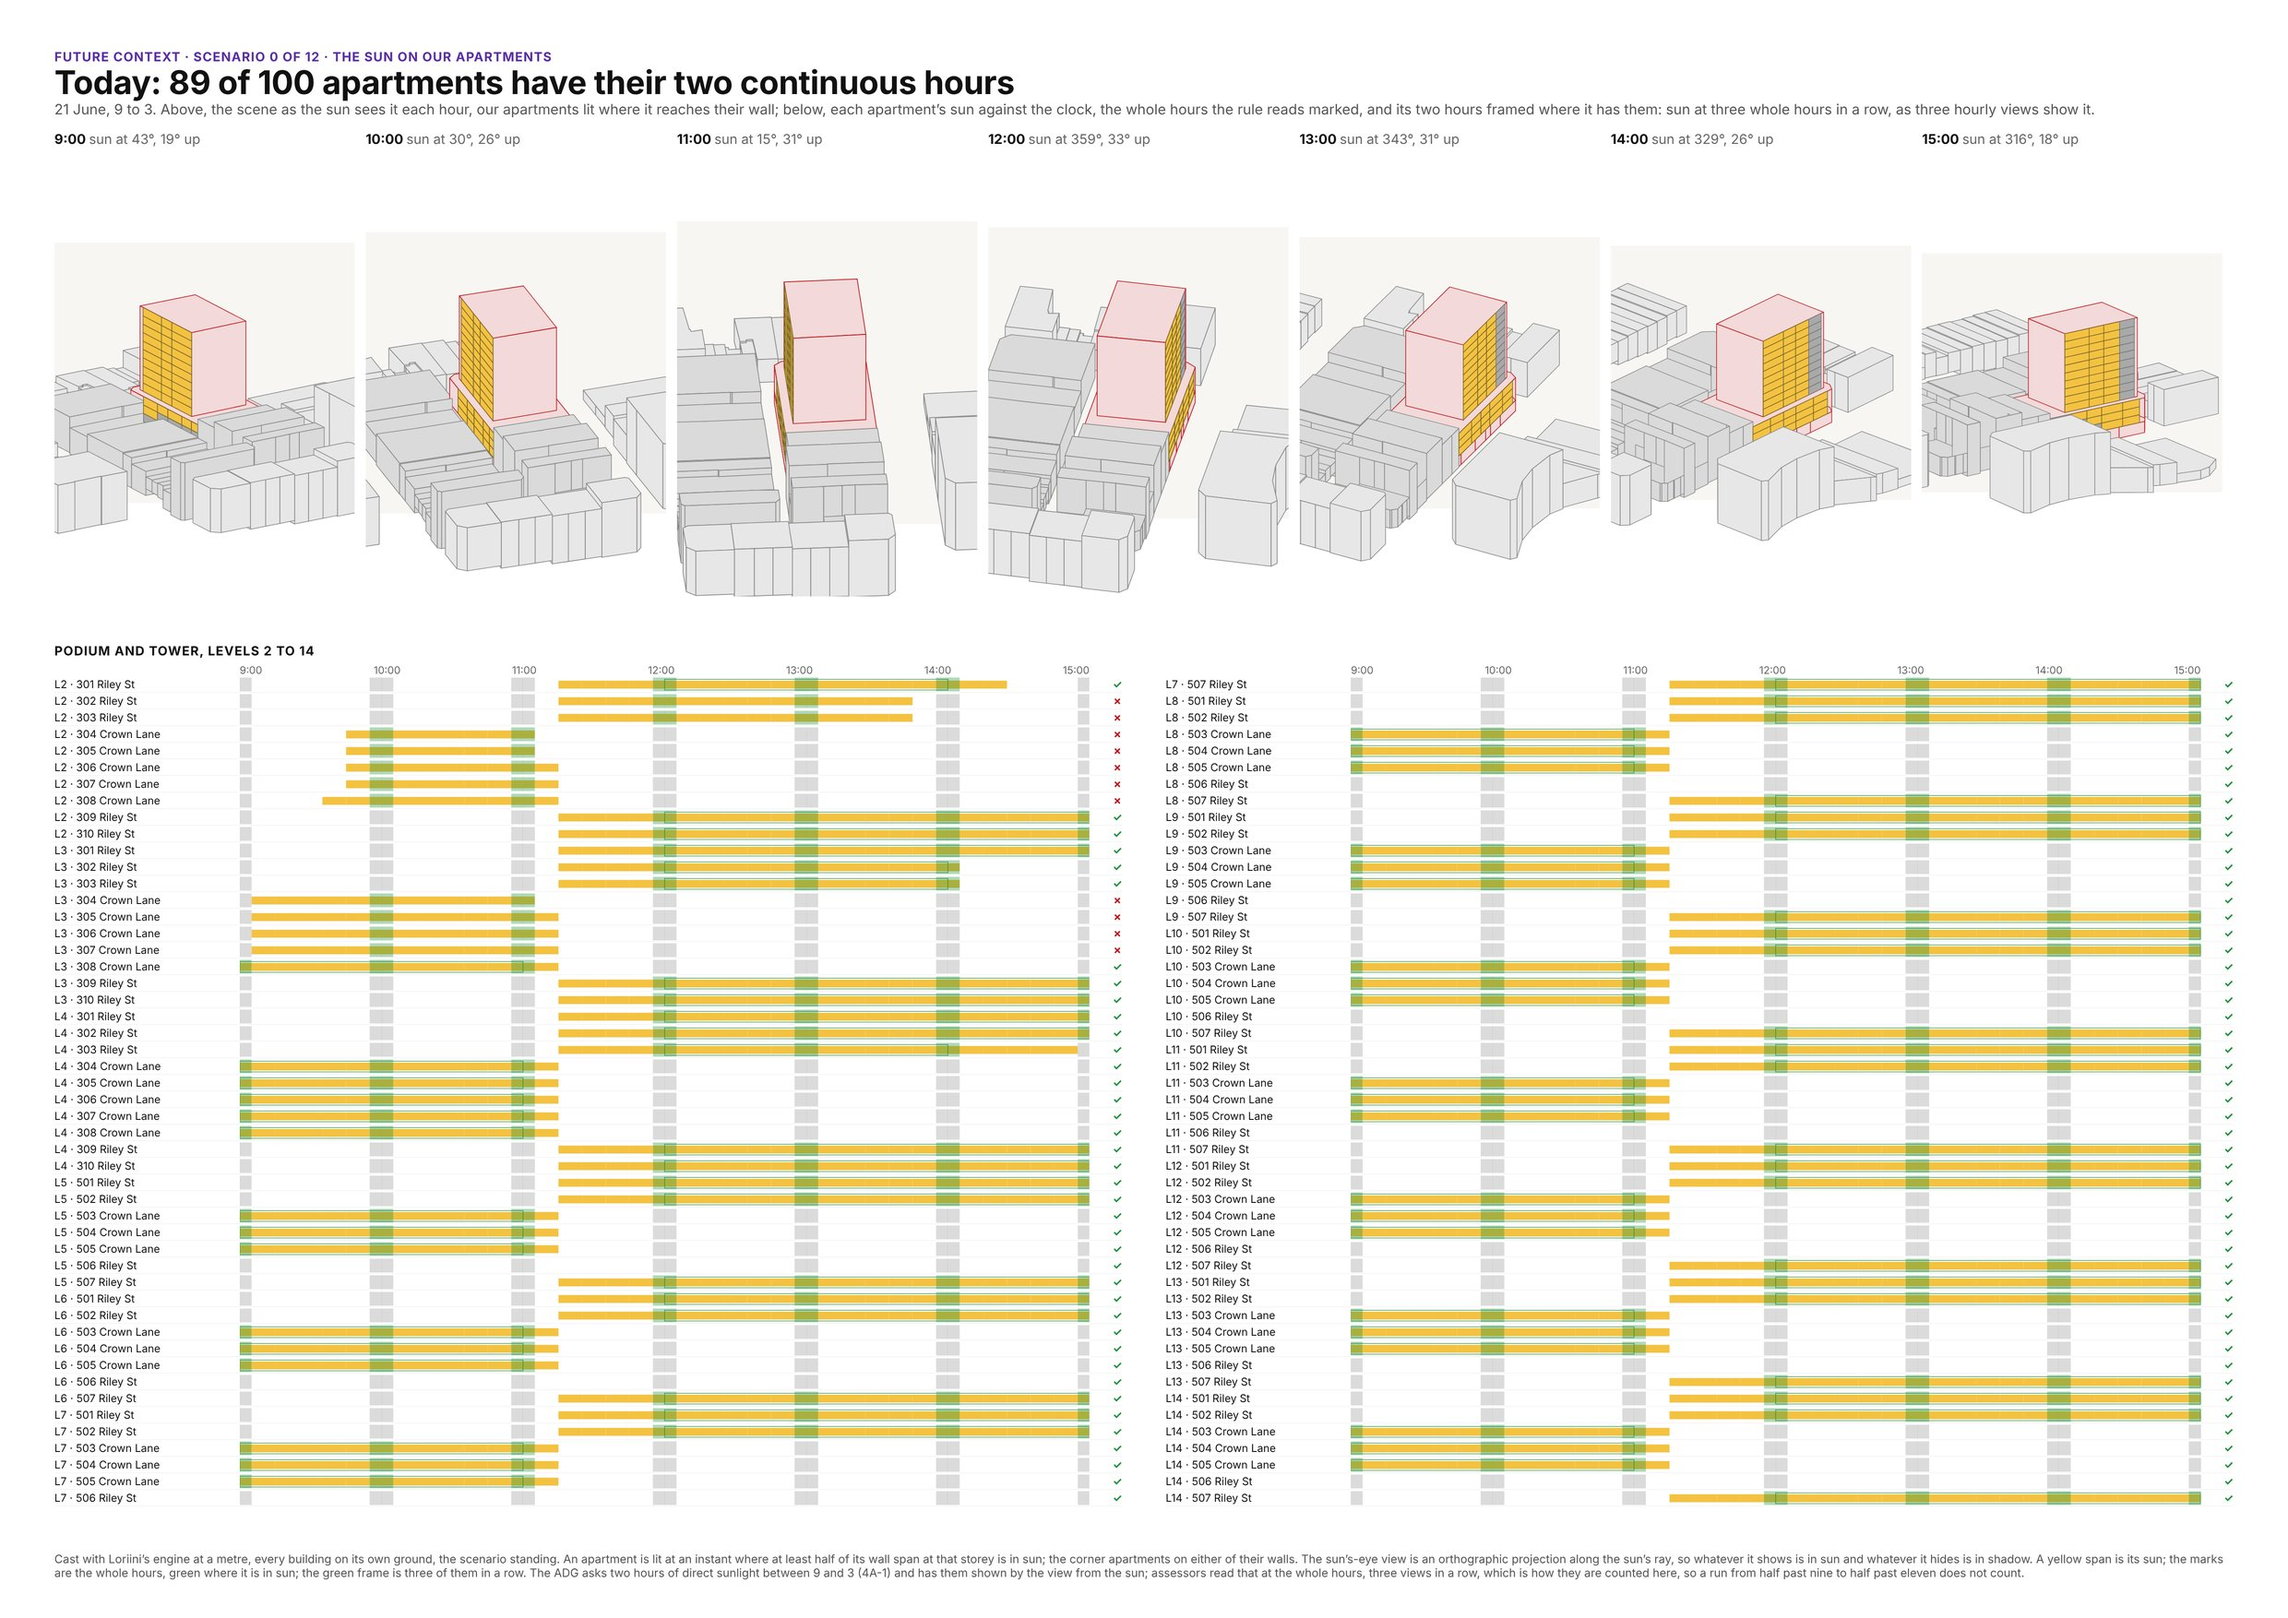
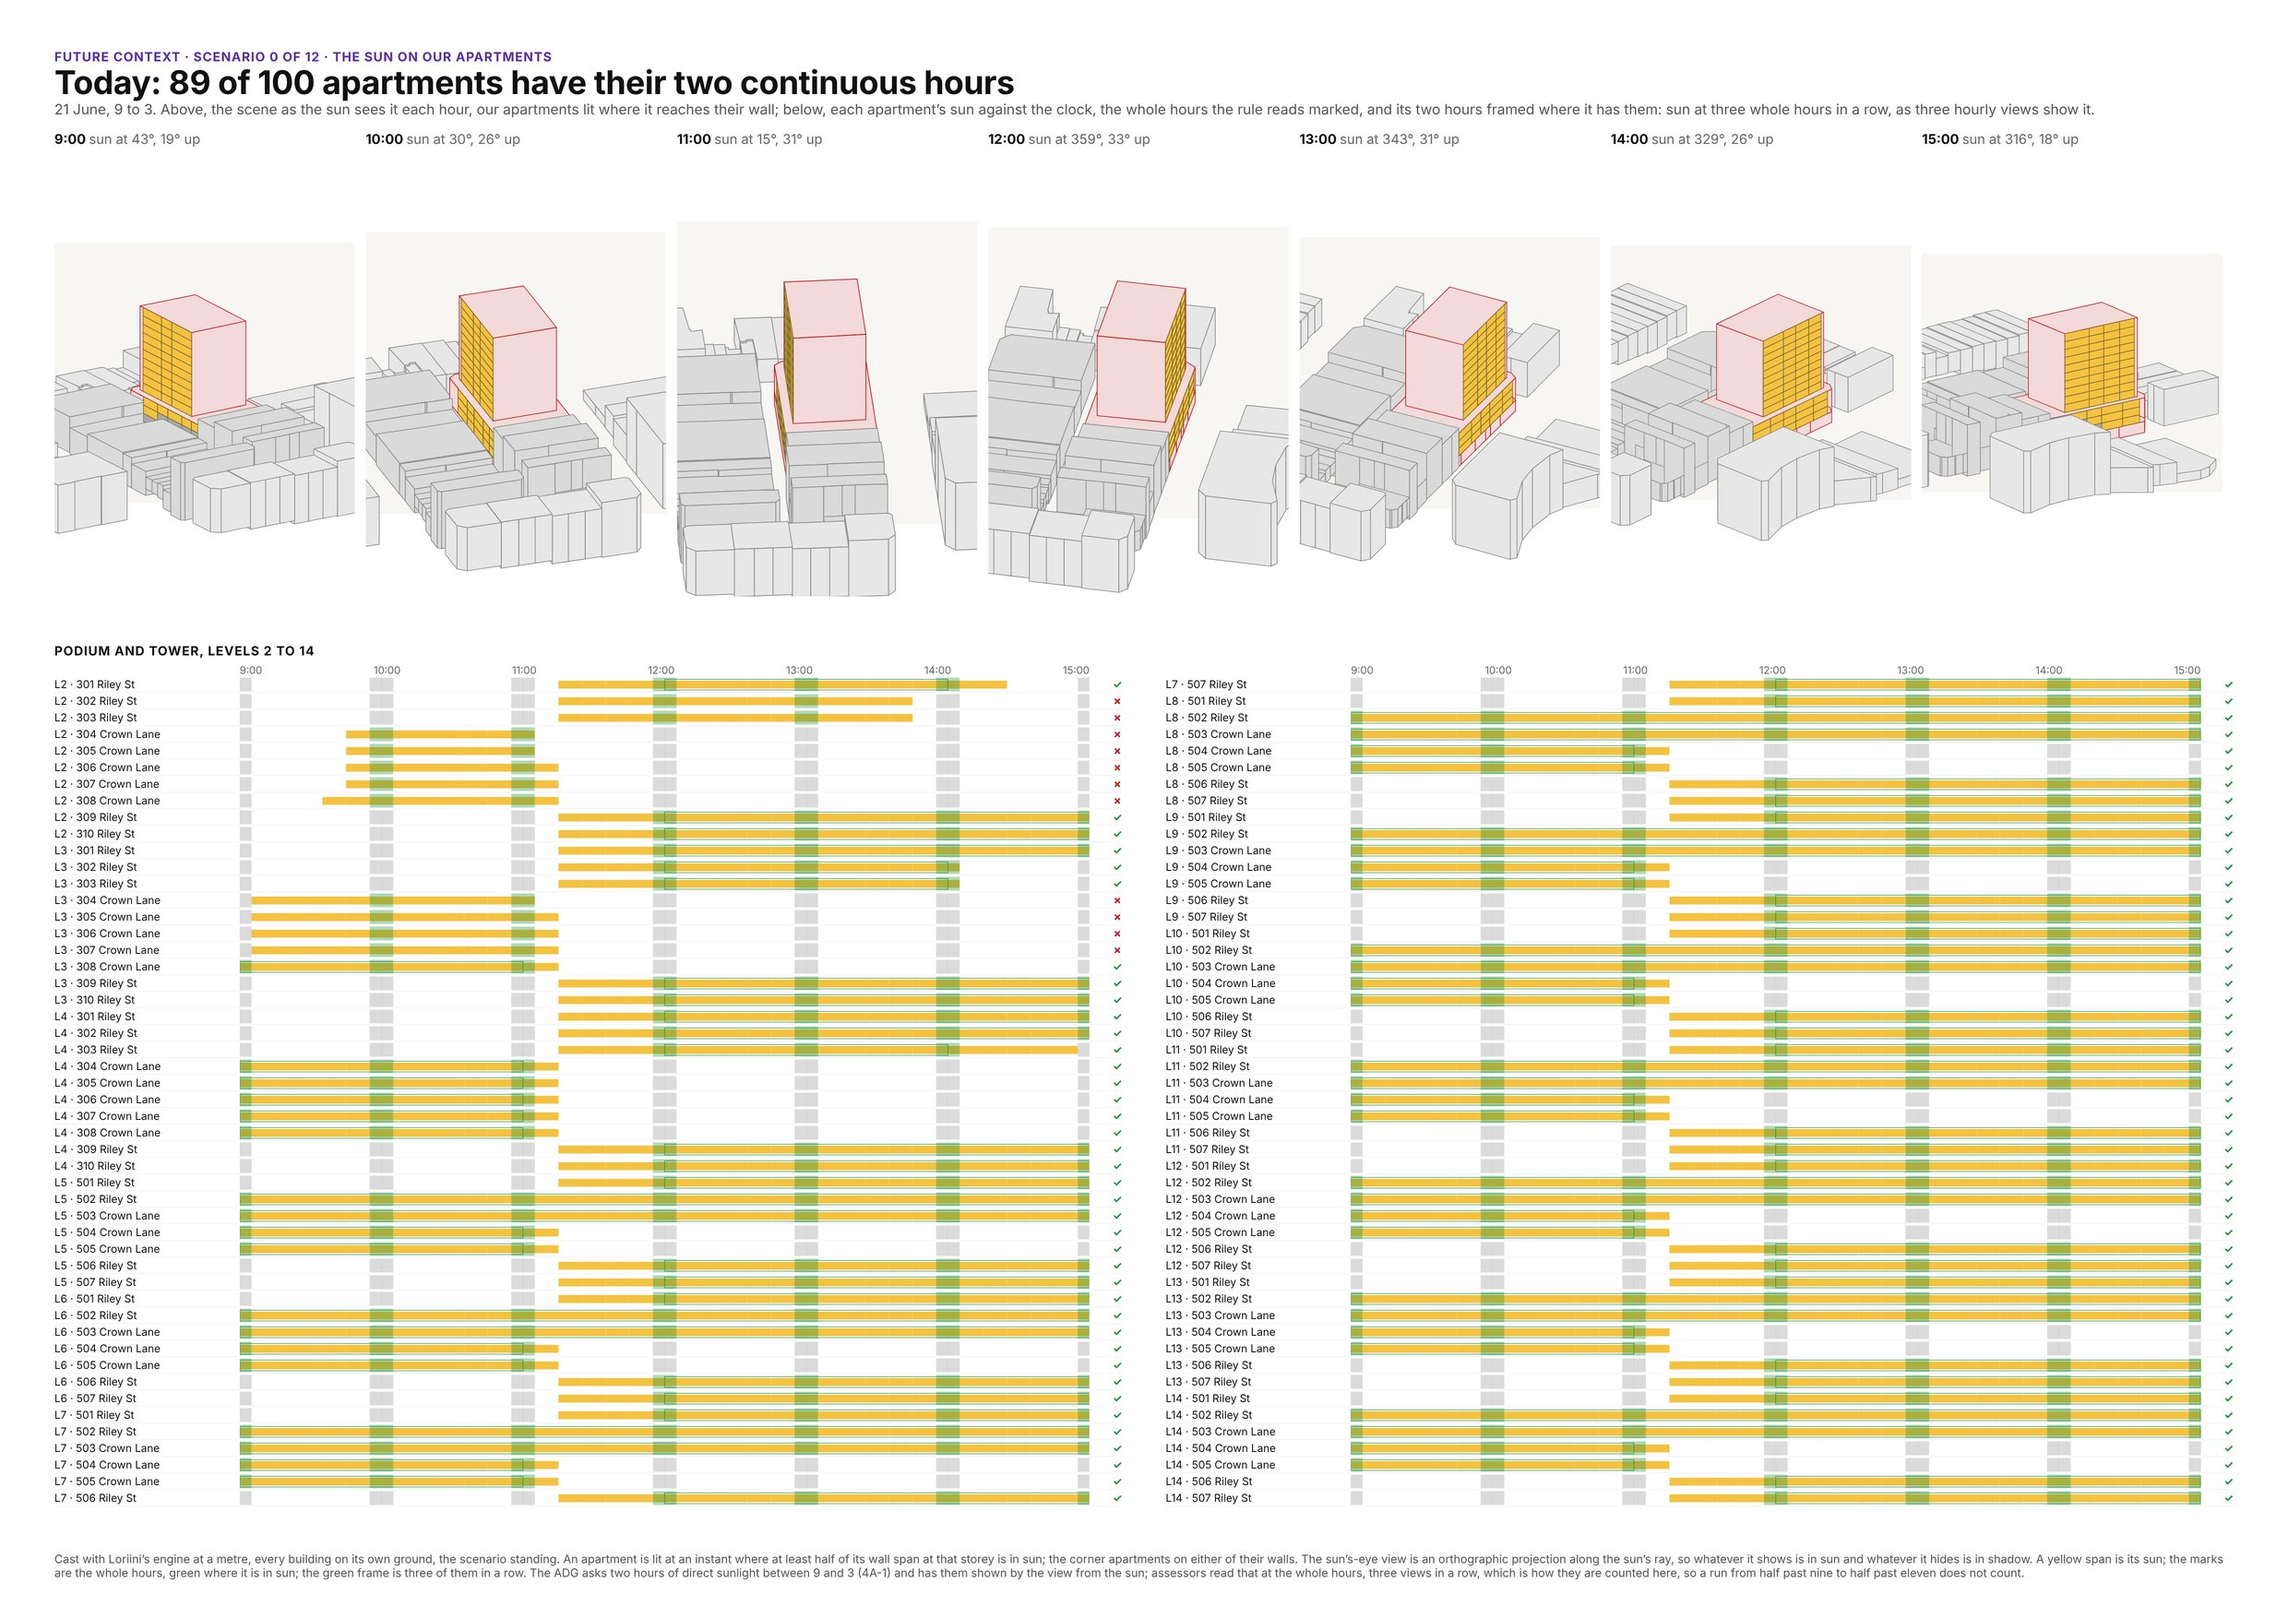
Future context: a corner unit is lit at an instant where either of its walls is
A corner unit's sunlit instants pooled the cells of both its walls, so where its end wall never sees the sun (a south wall in June) the pool never reached half and the unit read as shaded all day, in the views and the hour chart, while the test itself passed it on its other wall. Each wall is now read on its own and the unit is lit where either is, as the test reads it.

Claude-Session: https://claude.ai/code/session_01VNRPaoqvXaWWnp37ybZcdp

diff --git a/scripts/capacity_study/future_solar.py b/scripts/capacity_study/future_solar.py
@@ -211,11 +211,19 @@ def unit_test(pairs, units, lit_by_panel=None):
                 dark += int(none)
                 series = ''
                 if lit_by_panel:
-                    rows_ = cells(d, a, b, fl, 'lit') + (cells(corner, 0.0, CORNER_M, fl, 'lit') if d == 'E' and corner else cells(corner, max(0.0, ew - CORNER_M), ew, fl, 'lit') if corner else [])
-                    rows_ = [x for x in rows_ if x.size]
-                    if rows_:
-                        stack = np.concatenate(rows_, axis=0)                      # (cells, instants)
-                        series = ''.join('1' if x else '0' for x in (stack.mean(axis=0) >= 0.5))
+                    # lit at an instant where half of either of its walls is, as the test reads a corner unit: its own
+                    # wall's span, and for a corner unit the end wall's first metres, each on its own
+                    walls_ = [cells(d, a, b, fl, 'lit')]
+                    if corner:
+                        walls_.append(cells(corner, 0.0, CORNER_M, fl, 'lit') if d == 'E' else cells(corner, max(0.0, ew - CORNER_M), ew, fl, 'lit'))
+                    lit_at = None
+                    for rows_ in walls_:
+                        rows_ = [x for x in rows_ if x.size]
+                        if rows_:
+                            w_ = np.concatenate(rows_, axis=0).mean(axis=0) >= 0.5      # (instants,)
+                            lit_at = w_ if lit_at is None else (lit_at | w_)
+                    if lit_at is not None:
+                        series = ''.join('1' if x else '0' for x in lit_at)
                 each.append((str(unit[0]), fl, lit, none, series))
     r = dict(share=ok / total if total else 0.0, dark=dark / total if total else 0.0, bays=total)
     return dict(double=r, single=r, planned=r, units=True, per_floor=sum(len(v) for v in units.values()), each=each)
